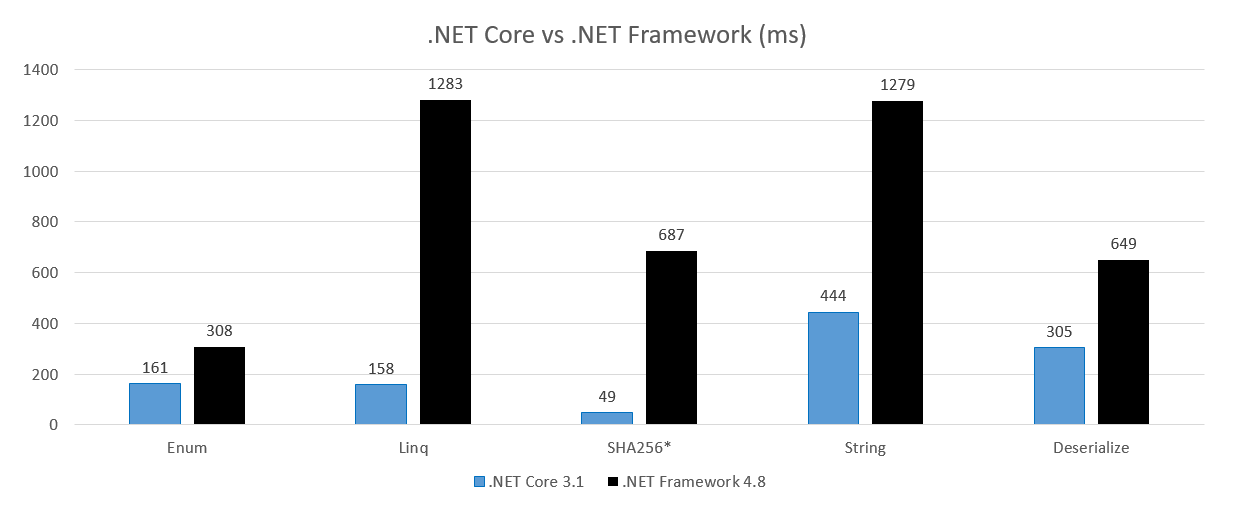
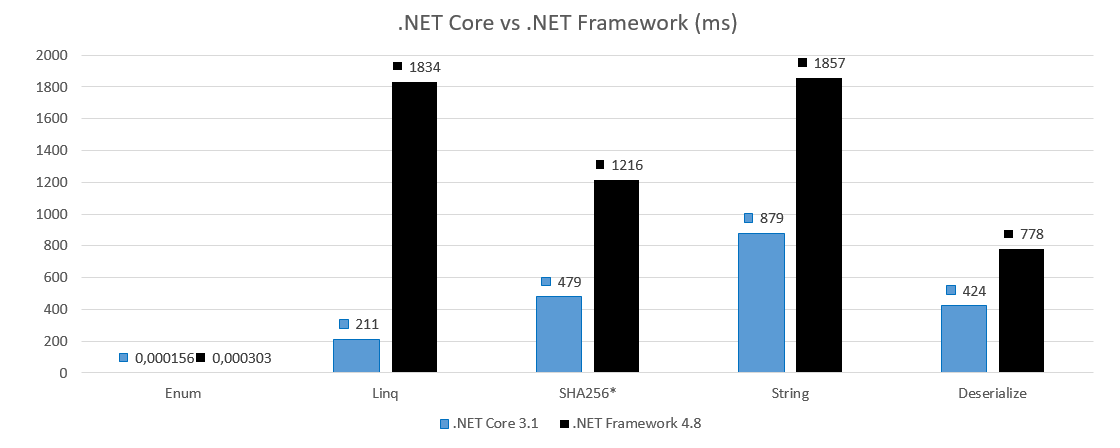
more read

diff --git a/README.md b/README.md
@@ -1,5 +1,5 @@
 # DotNetFrameworkVsCore
-Code to compare performance .NET Framework and .NET Core
+Code to compare performance of .NET Framework (4.8) and .NET Core (3.1.1)
 
 ![Chart](img/chart1.png)
 
@@ -48,3 +48,33 @@ public void Deserialize()
     formatter.Deserialize(mem);
 }
 ```
+
+## Results
+
+### Intel  Core i7-4702MQ CPU 2.20GHz (Hasewell), Windows 10 (1909)
+#### .NET Framework 4.8
+- Enum -  303 ns
+- Linq - 1 834 ms
+- SHA256 - 1 216 ms
+- String - 1 857 ms
+- Deserialize - 778 ms
+#### .NET Core 3.1.1
+- Enum -  156 ns
+- Linq - 211 ms
+- SHA256 - 479 ms
+- String - 879 ms
+- Deserialize - 424 ms
+
+### AMD Ryzen 7 3700X, Windows 10 (1903 (?))
+#### .NET Framework 4.8
+- Enum -  231 ns
+- Linq - 1 283 ms
+- SHA256 - 687 ms
+- String - 1 279 ms
+- Deserialize - 645 ms
+#### .NET Core 3.1.1
+- Enum -  129 ns
+- Linq - 158 ms
+- SHA256 - 49 ms
+- String - 444 ms
+- Deserialize - 305 ms
